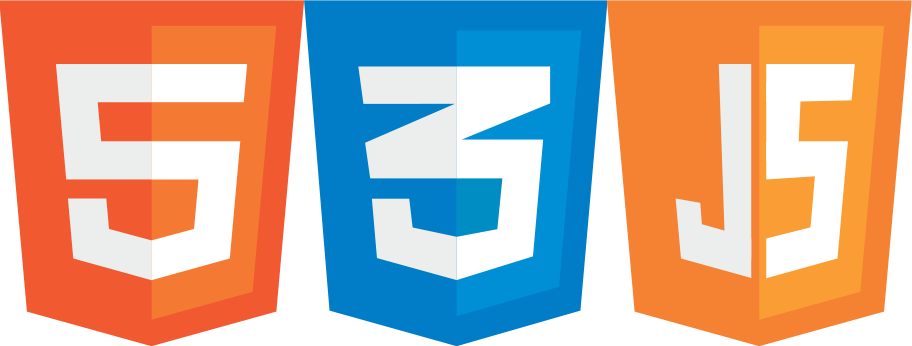
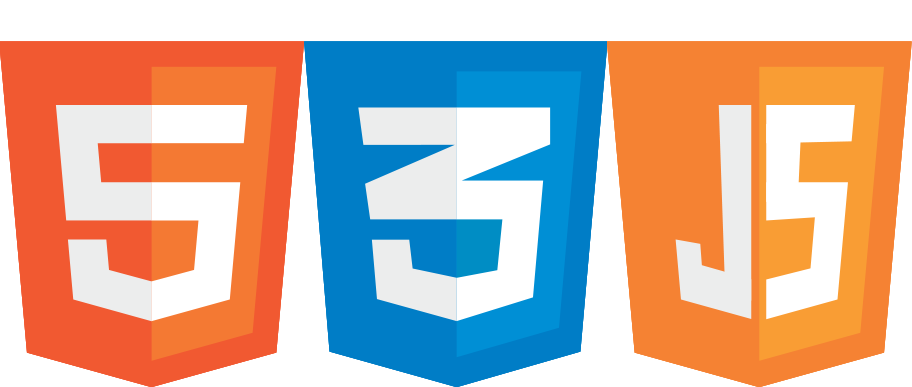
skills

diff --git a/index.html b/index.html
@@ -24,6 +24,7 @@
 				<ul>
 					<li><a href="#about">ABOUT</a></li>
 					<li><a href="#skills">SKILLS</a></li>
+					<!--<li><a href="#projects">PROJECTS</a></li>-->
 					<li><a href="#contact">CONTACT</a></li>
 				</ul>
 			</nav>
@@ -47,17 +48,17 @@
 
 			<div class="row">
 				<div class="col2">
-					<p>HTML/CSS/JS</p>
+					<img class="skillslogo" src="imgs/html-css-javascript.png" />
 					<p>This website is created with HTML and CSS, without any use of JS. At the moment, I am learning how to use React.JS effectively, and I will rewrite this website when I have more experience with it.</p>
 				</div>
 				<div class="col2">
-					<p>Java</p>
+					<img class="skillslogo" src="imgs/java-logo.png" />
 					<p>I started learning Java in high school. Java taught me the fundamentals of object-oriented programming. Currently, I am studying to become an Oracle Certified Associate, and an eventual Oracle Certified Professional.</p>
 				</div>
 			</div>
 			<div class="row">
 				<div class="col2">
-					<p>C# and SQL</p>
+					<img class="skillslogo" src="imgs/c-sql-server.png" />
 					<p>By using C# and SQL, I'm familarizing myself with data structures and how they are used in creating databases. I am in the process of learning how to set up and create a database.</p>
 				</div>
 				<div class="col2"></div>

diff --git a/css/style.css b/css/style.css
@@ -27,14 +27,13 @@ p {
 
 .col2{
 	flex: 50%;
-	border-bottom: 1px solid white;
-	margin:10px;
+	margin:40px;
 }
 
 /* sections */
 section {
 	padding: 80px 20%;
-	background-color: #000;
+	background-color: #181818;
 	color:#fff;
 }
 
@@ -46,6 +45,13 @@ section {
 #contact {
 	background-color:#fafafa;
 	color:#000;
+}
+
+.skillslogo {
+	display:block;
+	width:auto;
+	height:200px;
+	margin:0 auto;
 }
 
 /* nav */
